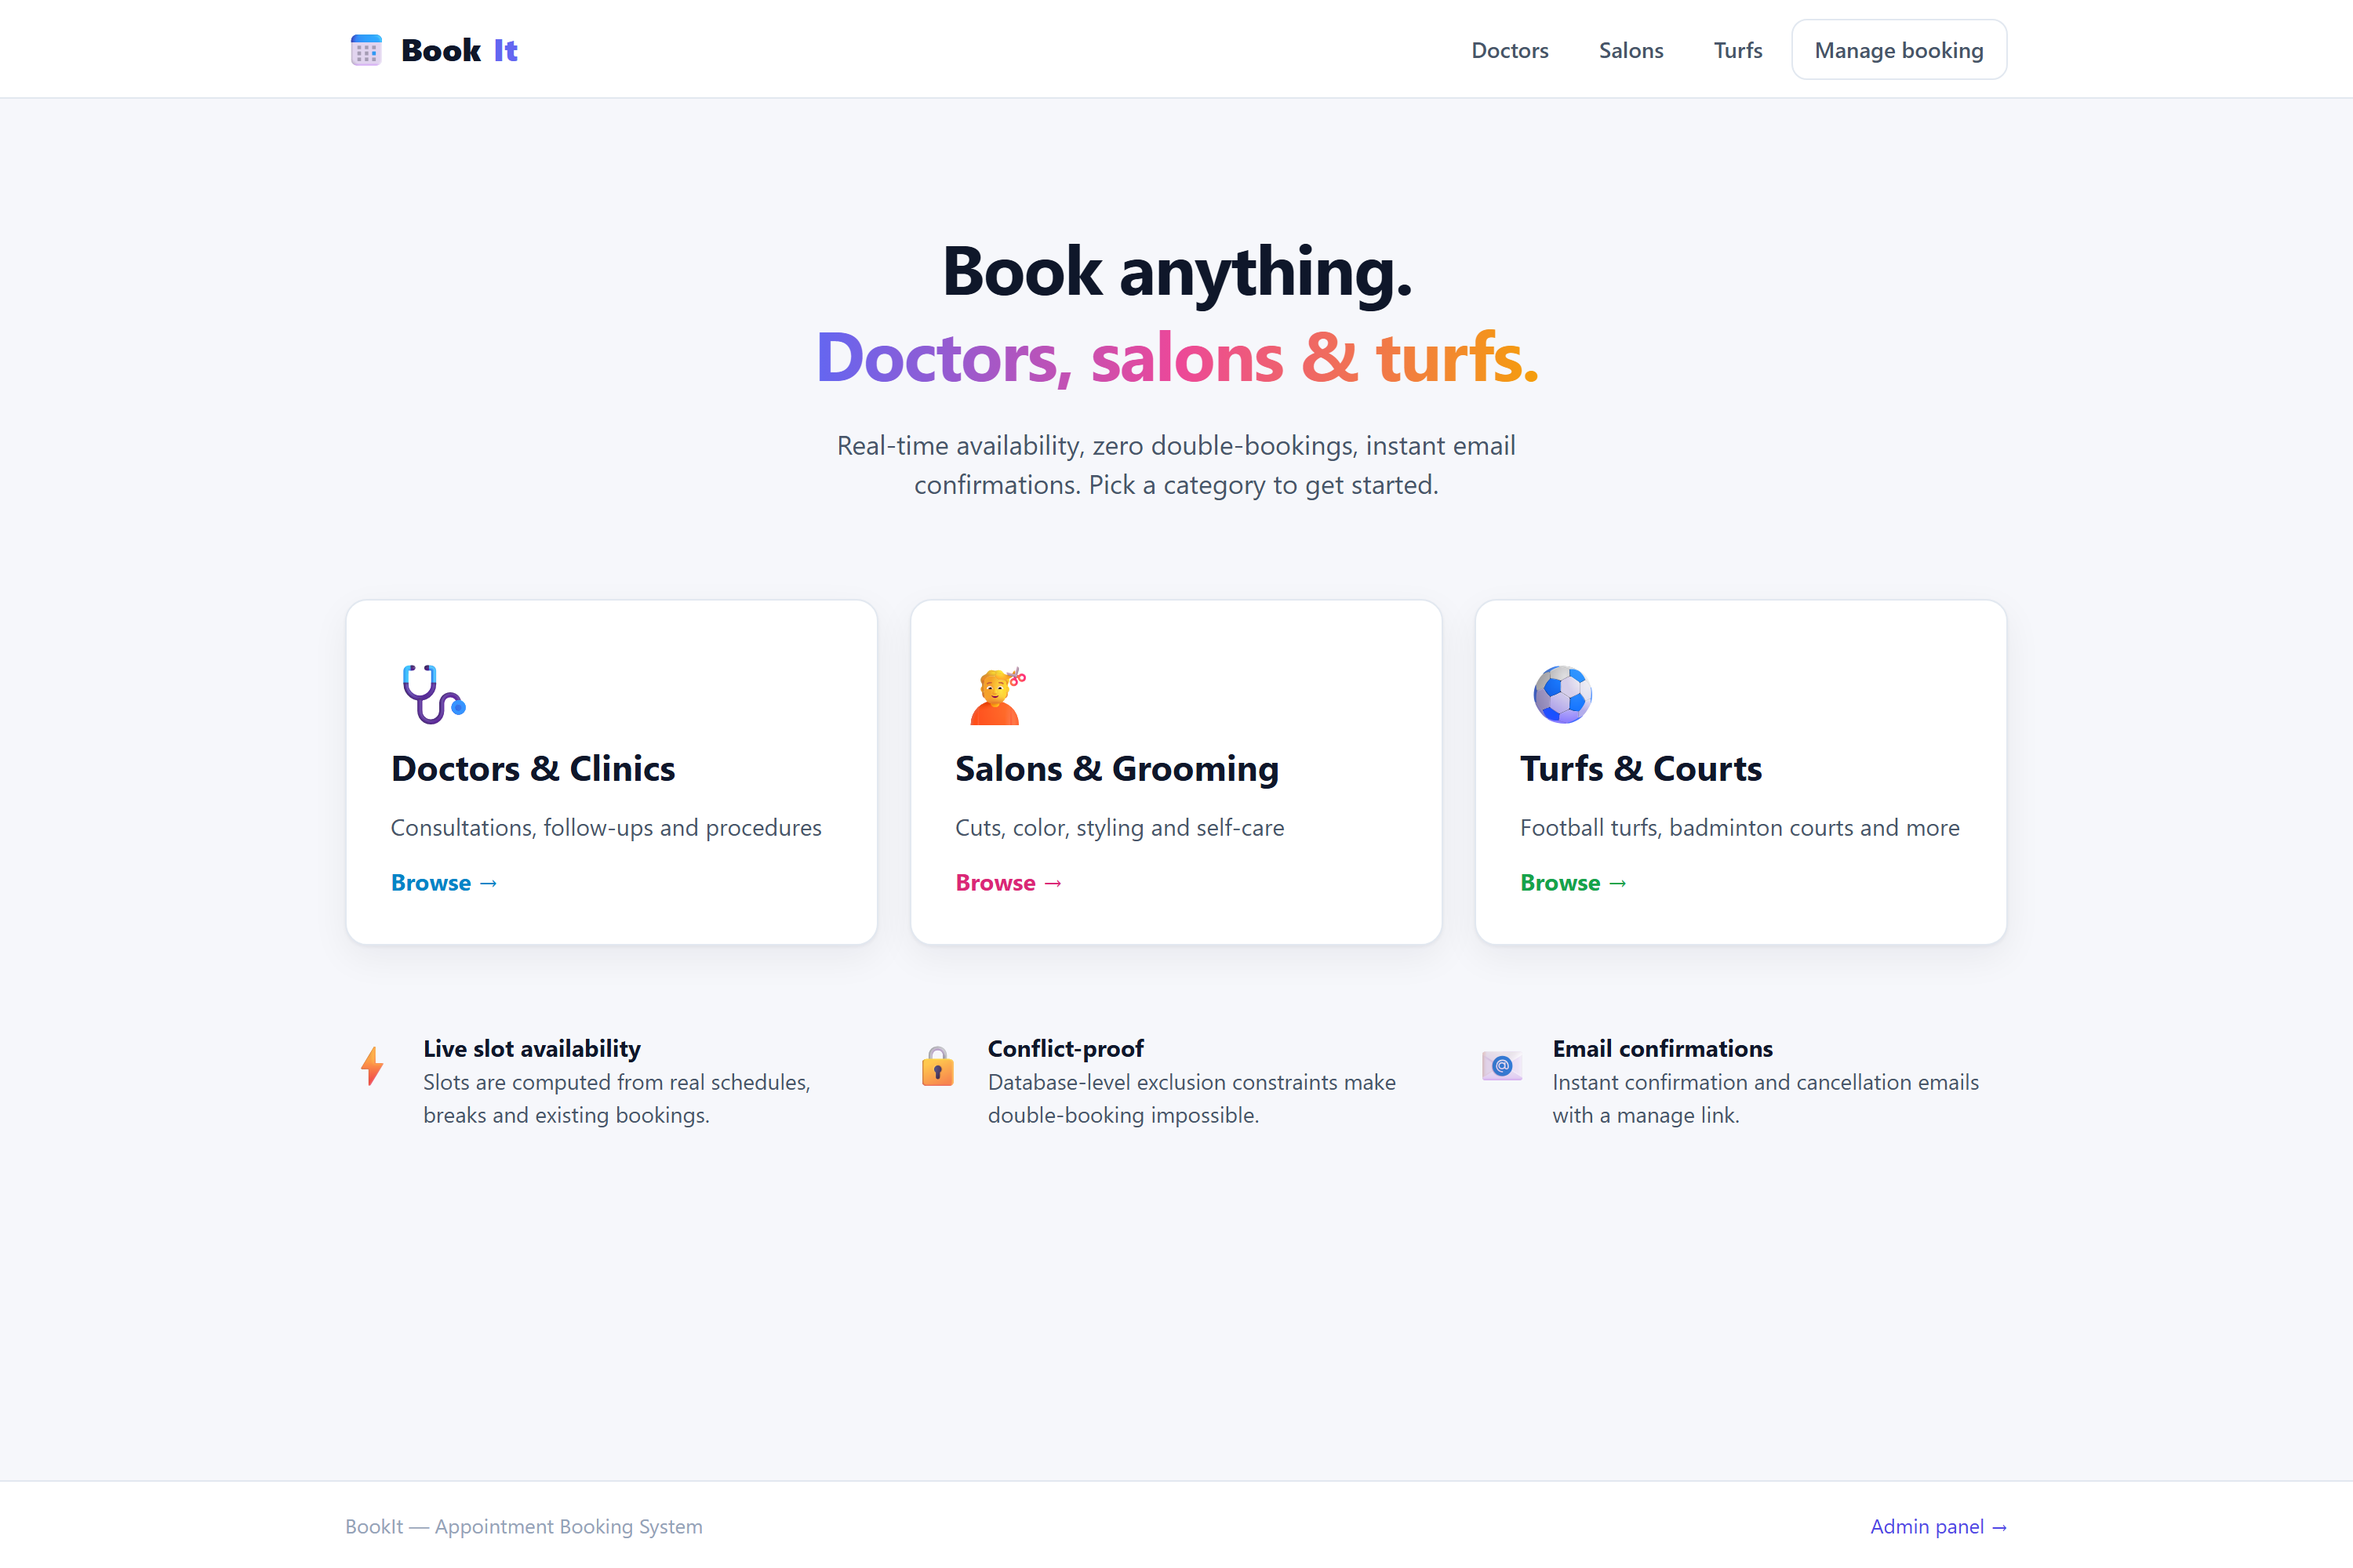
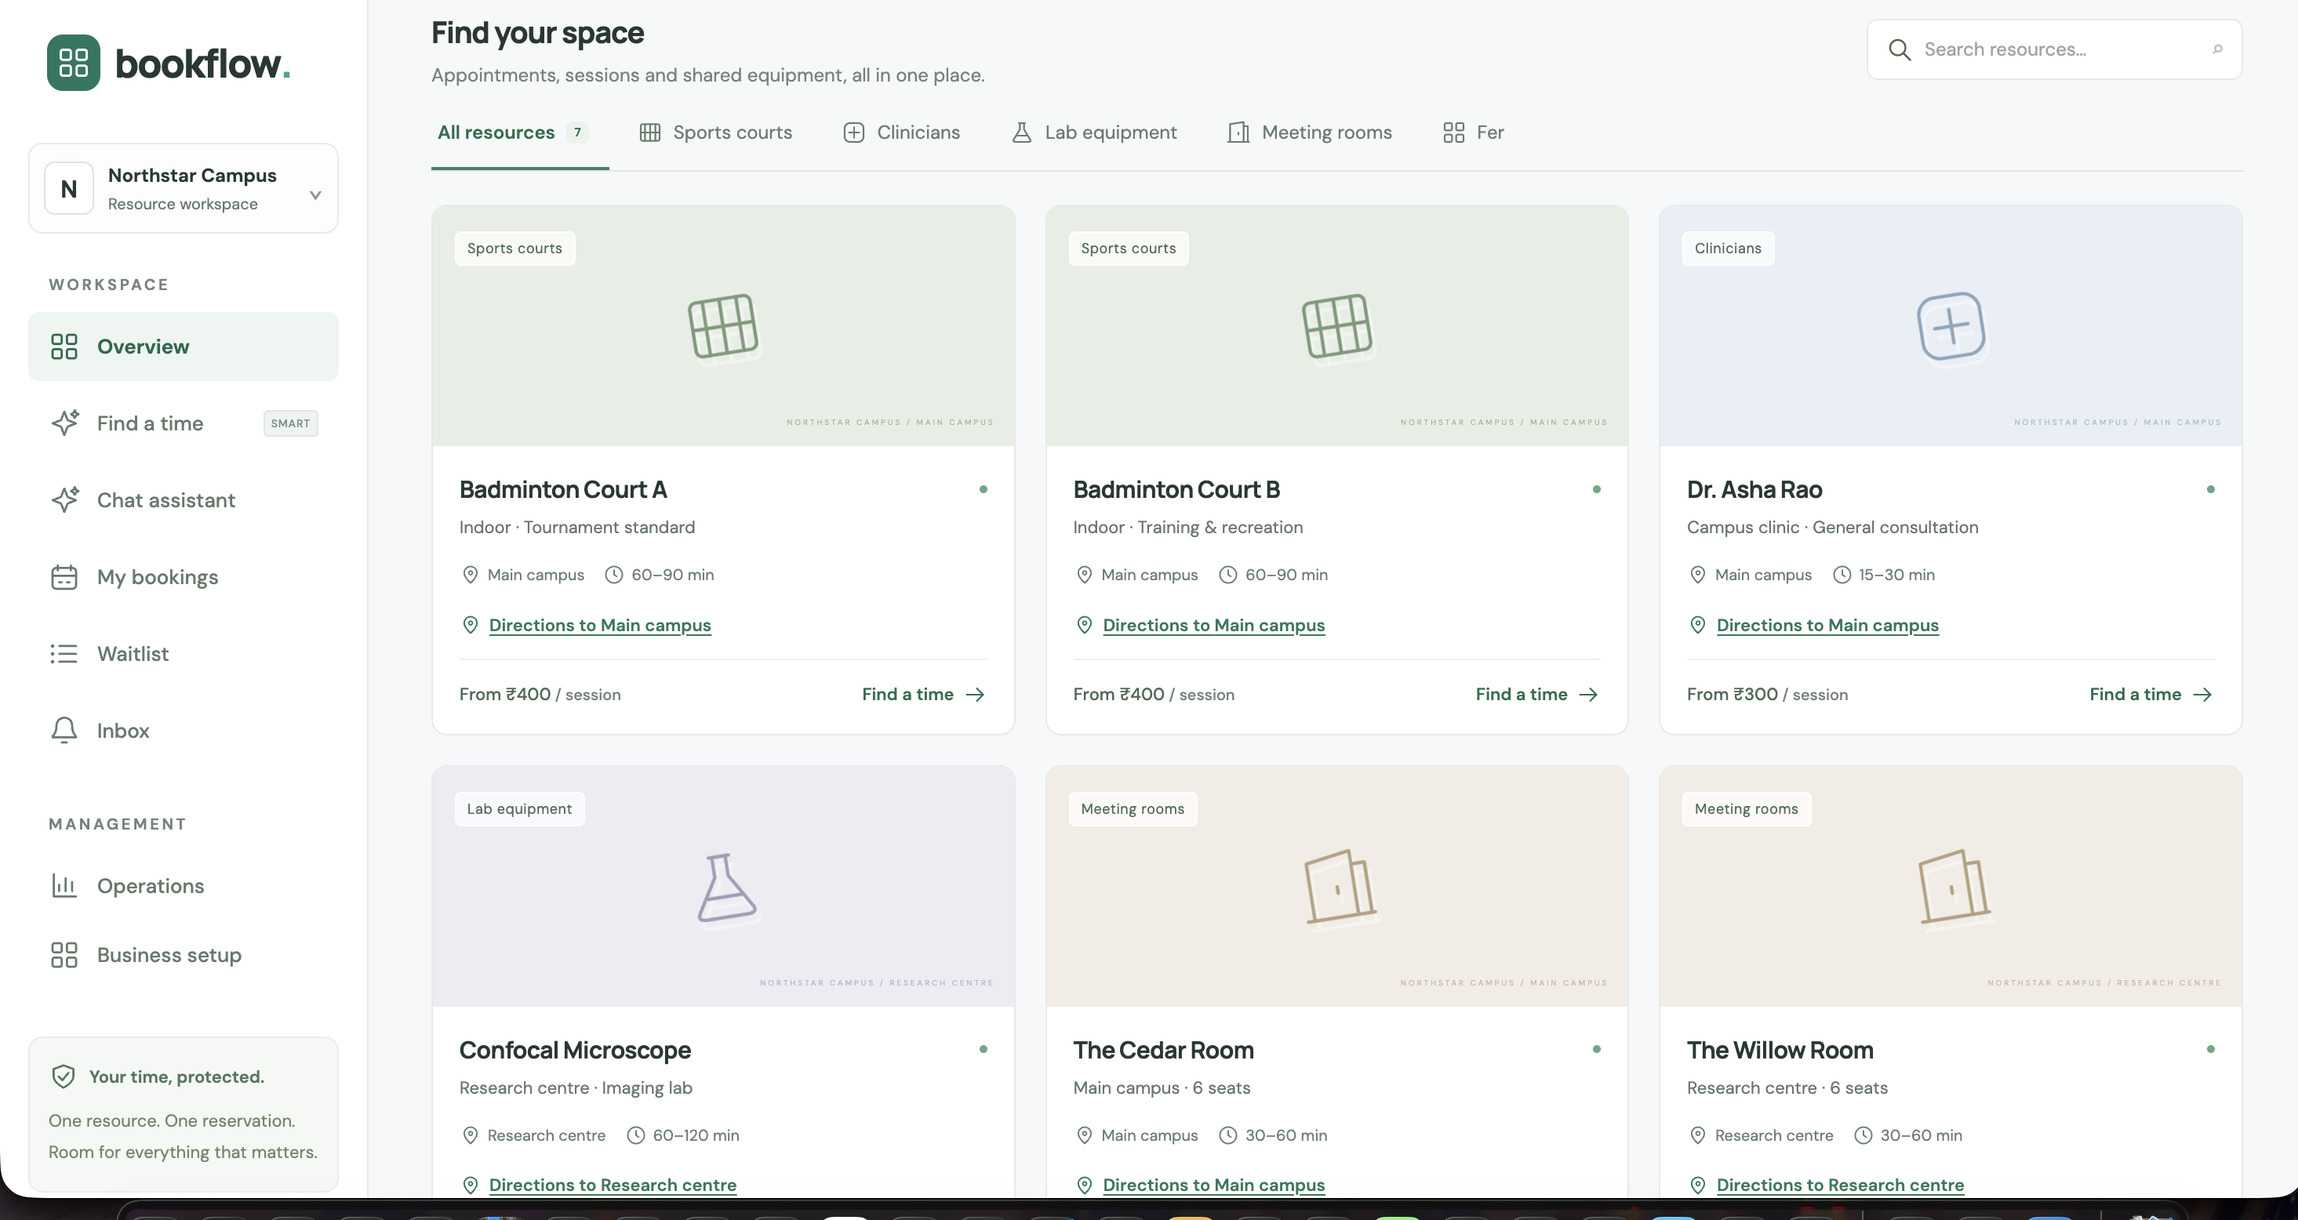
Replace README screenshots with BookFlow views

diff --git a/README.md b/README.md
@@ -39,43 +39,23 @@ AI-assisted search, protected holds, bookings, waitlists, and notifications.
   <img src="assets/screenshots/home.png" alt="BookFlow customer workspace" width="92%" />
 </p>
 
-### Business operations dashboard
+### Resource catalog
 
-The admin workspace gives business owners an operational view of upcoming
-bookings, resources, schedules, and customer activity.
+Customers can search and browse active resources across sports courts,
+clinicians, lab equipment, and meeting rooms.
 
 <p align="center">
-  <img src="assets/screenshots/admin-dashboard.png" alt="BookFlow business operations dashboard" width="92%" />
+  <img src="assets/screenshots/space.png" alt="BookFlow resource catalog" width="92%" />
 </p>
 
-### Booking and resource management
+### Operations dashboard
 
-<table>
-  <tr>
-    <td width="50%" align="center">
-      <strong>Live booking flow</strong><br />
-      <sub>Service, date, and availability selection with live slot calculation.</sub><br /><br />
-      <img src="assets/screenshots/booking-flow.png" alt="BookFlow live booking flow" width="100%" />
-    </td>
-    <td width="50%" align="center">
-      <strong>Resource management</strong><br />
-      <sub>Business owners manage resources, services, schedules, and time off.</sub><br /><br />
-      <img src="assets/screenshots/admin-providers.png" alt="BookFlow resource management" width="100%" />
-    </td>
-  </tr>
-  <tr>
-    <td width="50%" align="center">
-      <strong>Booking operations</strong><br />
-      <sub>Review, filter, and update booking status from the business workspace.</sub><br /><br />
-      <img src="assets/screenshots/admin-bookings.png" alt="BookFlow booking operations" width="100%" />
-    </td>
-    <td width="50%" align="center">
-      <strong>Day view</strong><br />
-      <sub>See scheduled activity across resources for a selected day.</sub><br /><br />
-      <img src="assets/screenshots/admin-day-view.png" alt="BookFlow day view" width="100%" />
-    </td>
-  </tr>
-</table>
+Business owners can monitor confirmed sessions, active holds, waitlist demand,
+lead time, resource commitment, and reservation outcomes from one workspace.
+
+<p align="center">
+  <img src="assets/screenshots/operations.png" alt="BookFlow operations dashboard" width="92%" />
+</p>
 
 ## What makes it special
 
